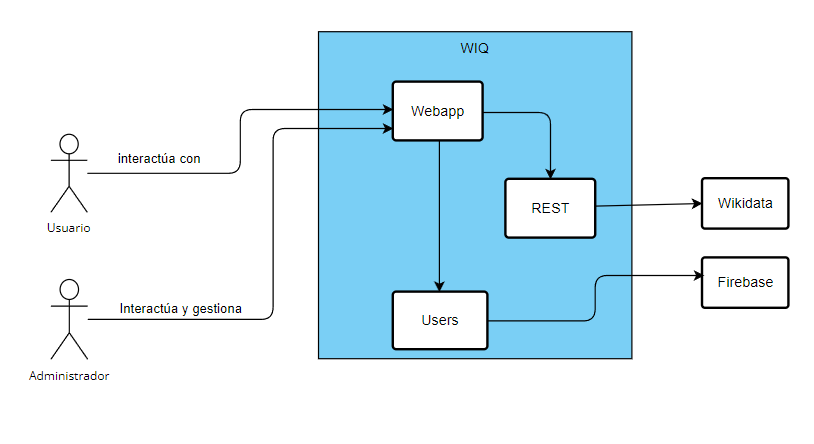
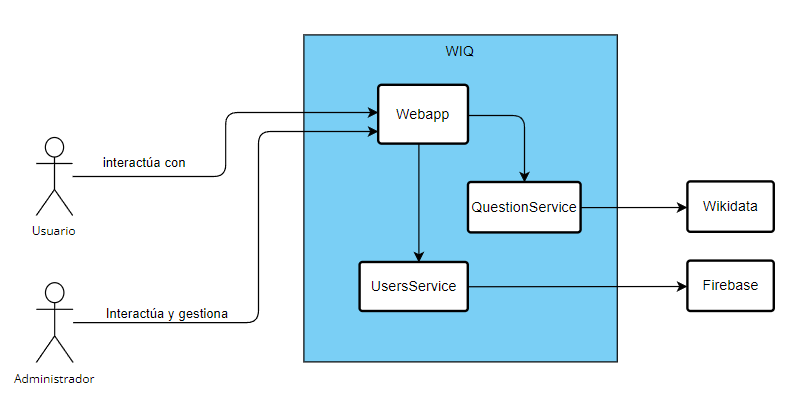
Updates

Changed region(s): [[0.0306, 0.0608, 1.0, 0.9418], [0.0, 0.9418, 0.1223, 0.9722], [0.0306, 0.5772, 0.0917, 0.6076]]

diff --git a/index.html b/index.html
@@ -4,7 +4,7 @@
 <meta charset="UTF-8">
 <meta http-equiv="X-UA-Compatible" content="IE=edge">
 <meta name="viewport" content="width=device-width, initial-scale=1.0">
-<meta name="generator" content="Asciidoctor 2.0.21">
+<meta name="generator" content="Asciidoctor 2.0.20">
 <title>Documentación wiq_es05a</title>
 <link rel="stylesheet" href="https://fonts.googleapis.com/css?family=Open+Sans:300,300italic,400,400italic,600,600italic%7CNoto+Serif:400,400italic,700,700italic%7CDroid+Sans+Mono:400,700">
 <style>
@@ -140,7 +140,7 @@ p a>code:hover{color:rgba(0,0,0,.9)}
 #content::before{content:none}
 #header>h1:first-child{color:rgba(0,0,0,.85);margin-top:2.25rem;margin-bottom:0}
 #header>h1:first-child+#toc{margin-top:8px;border-top:1px solid #dddddf}
-#header>h1:only-child{border-bottom:1px solid #dddddf;padding-bottom:8px}
+#header>h1:only-child,body.toc2 #header>h1:nth-last-child(2){border-bottom:1px solid #dddddf;padding-bottom:8px}
 #header .details{border-bottom:1px solid #dddddf;line-height:1.45;padding-top:.25em;padding-bottom:.25em;padding-left:.25em;color:rgba(0,0,0,.6);display:flex;flex-flow:row wrap}
 #header .details span:first-child{margin-left:-.125em}
 #header .details span.email a{color:rgba(0,0,0,.85)}
@@ -162,7 +162,6 @@ p a>code:hover{color:rgba(0,0,0,.9)}
 #toctitle{color:#7a2518;font-size:1.2em}
 @media screen and (min-width:768px){#toctitle{font-size:1.375em}
 body.toc2{padding-left:15em;padding-right:0}
-body.toc2 #header>h1:nth-last-child(2){border-bottom:1px solid #dddddf;padding-bottom:8px}
 #toc.toc2{margin-top:0!important;background:#f8f8f7;position:fixed;width:15em;left:0;top:0;border-right:1px solid #e7e7e9;border-top-width:0!important;border-bottom-width:0!important;z-index:1000;padding:1.25em 1em;height:100%;overflow:auto}
 #toc.toc2 #toctitle{margin-top:0;margin-bottom:.8rem;font-size:1.2em}
 #toc.toc2>ul{font-size:.9em;margin-bottom:0}
@@ -328,7 +327,7 @@ a.image{text-decoration:none;display:inline-block}
 a.image object{pointer-events:none}
 sup.footnote,sup.footnoteref{font-size:.875em;position:static;vertical-align:super}
 sup.footnote a,sup.footnoteref a{text-decoration:none}
-sup.footnote a:active,sup.footnoteref a:active,#footnotes .footnote a:first-of-type:active{text-decoration:underline}
+sup.footnote a:active,sup.footnoteref a:active{text-decoration:underline}
 #footnotes{padding-top:.75em;padding-bottom:.75em;margin-bottom:.625em}
 #footnotes hr{width:20%;min-width:6.25em;margin:-.25em 0 .75em;border-width:1px 0 0}
 #footnotes .footnote{padding:0 .375em 0 .225em;line-height:1.3334;font-size:.875em;margin-left:1.2em;margin-bottom:.2em}
@@ -474,8 +473,8 @@ body.book #toc,body.book #preamble,body.book h1.sect0,body.book .sect1>h2{page-b
 </li>
 <li><a href="#section-runtime-view">6. Runtime View</a>
 <ul class="sectlevel2">
-<li><a href="#_runtime_scenario_1">6.1. &lt;Runtime Scenario 1&gt;</a></li>
-<li><a href="#_runtime_scenario_2">6.2. &lt;Runtime Scenario 2&gt;</a></li>
+<li><a href="#_inicio_sesión">6.1. &lt;Inicio Sesión&gt;</a></li>
+<li><a href="#_interaccion_con_preguntas">6.2. &lt;Interaccion con preguntas&gt;</a></li>
 <li><a href="#">6.3. &#8230;&#8203;</a></li>
 <li><a href="#_runtime_scenario_n">6.4. &lt;Runtime Scenario n&gt;</a></li>
 </ul>
@@ -1002,7 +1001,7 @@ The title of the table is the name of your system, the three columns contain the
 </thead>
 <tbody>
 <tr>
-<td class="tableblock halign-left valign-top"><p class="tableblock"><em><strong>Sistema</strong></em></p></td>
+<td class="tableblock halign-left valign-top"><p class="tableblock"><em><strong>WIQ</strong></em></p></td>
 <td class="tableblock halign-left valign-top"><p class="tableblock"><em><em>Contiene el frontend y backend de la aplicación.</em></em></p></td>
 </tr>
 <tr>
@@ -1015,7 +1014,7 @@ The title of the table is the name of your system, the three columns contain the
 </tr>
 <tr>
 <td class="tableblock halign-left valign-top"><p class="tableblock"><em><strong>Wikidata</strong></em></p></td>
-<td class="tableblock halign-left valign-top"><p class="tableblock"><em><em>API de donde obtendremos las preguntas y respuesta correcta para el juego de la aplicación.</em></em></p></td>
+<td class="tableblock halign-left valign-top"><p class="tableblock"><em><em>Fuente de información para la creación de las preguntas y respuestas.</em></em></p></td>
 </tr>
 </tbody>
 </table>
@@ -1061,12 +1060,12 @@ together with a mapping table showing the relationships between channels and inp
 <td class="tableblock halign-left valign-top"><p class="tableblock">Contiene el frontend y backend de la aplicación.</p></td>
 </tr>
 <tr>
-<td class="tableblock halign-left valign-top"><p class="tableblock"><em><strong>MongoDB</strong></em></p></td>
-<td class="tableblock halign-left valign-top"><p class="tableblock">Base de datos no relacional para el almacenamiento de usuarios.</p></td>
+<td class="tableblock halign-left valign-top"><p class="tableblock"><em><strong>MySQL</strong></em></p></td>
+<td class="tableblock halign-left valign-top"><p class="tableblock">Base de datos relacional para el almacenamiento de preguntas y respuestas.</p></td>
 </tr>
 <tr>
 <td class="tableblock halign-left valign-top"><p class="tableblock"><em><strong>Usuario</strong></em></p></td>
-<td class="tableblock halign-left valign-top"><p class="tableblock">Los usuarios que interactuaran con la aplicación.</p></td>
+<td class="tableblock halign-left valign-top"><p class="tableblock">El usuario final de la aplicación.</p></td>
 </tr>
 <tr>
 <td class="tableblock halign-left valign-top"><p class="tableblock"><em><strong>Wikidata API</strong></em></p></td>
@@ -1087,6 +1086,10 @@ together with a mapping table showing the relationships between channels and inp
 <tr>
 <td class="tableblock halign-left valign-top"><p class="tableblock"><em><strong>Firebase</strong></em></p></td>
 <td class="tableblock halign-left valign-top"><p class="tableblock">Plataforma de desarrollo de Google, se utiliza en el login del sistema.</p></td>
+</tr>
+<tr>
+<td class="tableblock halign-left valign-top"><p class="tableblock"><em><strong>Bootstrap</strong></em></p></td>
+<td class="tableblock halign-left valign-top"><p class="tableblock">Biblioteca para el diseño de aplicaciónes web.</p></td>
 </tr>
 </tbody>
 </table>
@@ -1332,10 +1335,6 @@ In the best case you will get away with examples or simple signatures.</p>
 <td class="tableblock halign-left valign-top"><p class="tableblock"><em><strong>REST</strong></em></p></td>
 <td class="tableblock halign-left valign-top"><p class="tableblock"><em><em>Manejo de datos de Wikidata.</em></em></p></td>
 </tr>
-<tr>
-<td class="tableblock halign-left valign-top"><p class="tableblock"><em><strong>Users</strong></em></p></td>
-<td class="tableblock halign-left valign-top"><p class="tableblock"><em><em>El manejo de las cuentas de los usuarios.</em></em></p></td>
-</tr>
 </tbody>
 </table>
 <div style="page-break-after: always;"></div>
@@ -1408,30 +1407,37 @@ You will mainly capture scenarios in your documentation to communicate your arch
 </div>
 </div>
 <div class="sect2">
-<h3 id="_runtime_scenario_1">6.1. &lt;Runtime Scenario 1&gt;</h3>
-<div class="ulist">
-<ul>
-<li>
-<p><em>&lt;insert runtime diagram or textual description of the scenario&gt;</em></p>
-</li>
-<li>
-<p><em>&lt;insert description of the notable aspects of the interactions between the
-building block instances depicted in this diagram.&gt;</em></p>
-</li>
-</ul>
+<h3 id="_inicio_sesión">6.1. &lt;Inicio Sesión&gt;</h3>
+<div class="paragraph">
+<p>A la hora de iniciar sesión nuestra web App nos mostrara la ventana pidiendo los datos necesarios para poder empezar a jugar.</p>
 </div>
 <div class="paragraph">
-<p>It is possible to use a sequence diagram:</p>
+<p>Se le piden una serie de datos al usuario que serán posteriormente pasados a Firebase encargado de controlar estos datos y devolverle a web App el ID del usuario que estará jugando.</p>
+</div>
+<div class="paragraph">
+<p>Una vez que el usario a completado el inicio de sesión de forma exitosa nuestra web App pasará a mostrar la pantalla de inicio del juego.</p>
 </div>
 <div class="imageblock">
 <div class="content">
-<img src="./images/Sequence%20diagram.png" alt="Sequence diagram" width="332" height="335">
+<img src="./images/06_acceso.png" alt="Diagrama vista de tiempo de ejecución para el acceso">
 </div>
 </div>
 </div>
 <div class="sect2">
-<h3 id="_runtime_scenario_2">6.2. &lt;Runtime Scenario 2&gt;</h3>
-
+<h3 id="_interaccion_con_preguntas">6.2. &lt;Interaccion con preguntas&gt;</h3>
+<div class="paragraph">
+<p>Rest que tiene nuestra base de datos será el encargado de obtener la pregunta con sus respuestas correctas e incorrectas y pasarsela a web App</p>
+</div>
+<div class="paragraph">
+<p>Web App comenzara mostrando por pantalla la pregunta con todas las respuestas disponibles, a lo que el usuario solo podrá escoger una respuesta de todas las posibles.
+Una vez el usuario elige la respuesta se comprobará si los resultados son correctos o errones.</p>
+</div>
+<div class="paragraph">
+<p>En base a la respuesta del usuario web App mostrara si ha acertado o fallado de forma visual que lo pueda entender el usuario.</p>
+</div>
+<div class="paragraph">
+<p>mage::06_pregunta.png["Diagrama vista de tiempo de ejecución para la pregunta"]</p>
+</div>
 </div>
 <div class="sect2">
 <h3 id="">6.3. &#8230;&#8203;</h3>
@@ -2162,7 +2168,7 @@ See <a href="https://arc42.org" class="bare">https://arc42.org</a>.</p>
 <div id="footer">
 <div id="footer-text">
 Version 8.2 EN<br>
-Last updated 2024-02-26 14:09:30 +0100
+Last updated 2024-03-03 12:45:24 +0100
 </div>
 </div>
 </body>
